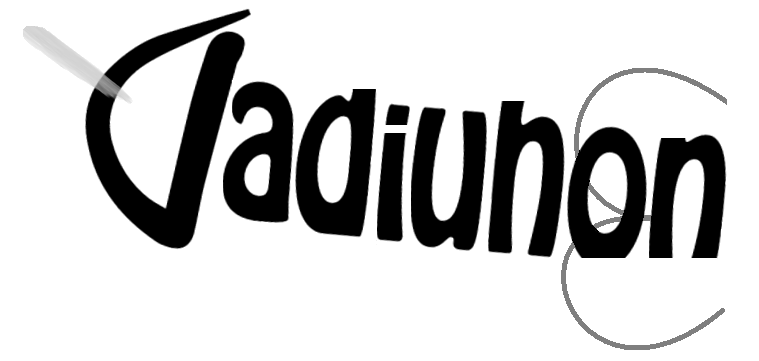
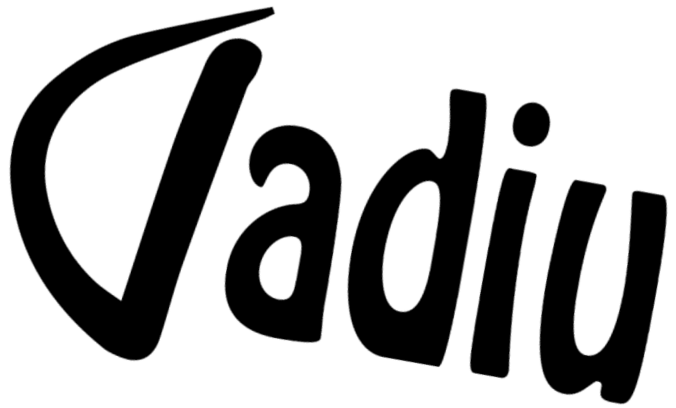
1

diff --git a/multiknapsack.html b/multiknapsack.html
@@ -14,7 +14,7 @@
 	  <script type="text/javascript" src="/js/jquery.scrollTo.js"></script>
 </head>
 
-<title>Dadiuhon | Multiple Knapsacks</title>
+<title>Dadiu | Multiple Knapsacks</title>
 
 <body onload="">
 	<div id="head">

diff --git a/japaneseSearch.html b/japaneseSearch.html
@@ -16,7 +16,7 @@
 
 </head>
 
-<title>Dadiuhon | 初級日本語 搜索</title>
+<title>Dadiu | 初級日本語 搜索</title>
 
 <body onload="document.getElementById('searchKey').focus();">
 	<div id="head">

diff --git a/academic.html b/academic.html
@@ -14,7 +14,7 @@
 	  <script type="text/javascript" src="/js/jquery.scrollTo.js"></script>
 </head>
 
-<title>Dadiuhon | Dice Game</title>
+<title>Dadiu | Dice Game</title>
 
 <body>
 	<div id="page0">

diff --git a/japaneseVerb.html b/japaneseVerb.html
@@ -16,7 +16,7 @@
 
 </head>
 
-<title>Dadiuhon | 初級日本語 動詞形態</title>
+<title>Dadiu | 初級日本語 動詞形態</title>
 
 <body onload="restart();">
 	<div id="head">

diff --git a/japaneseReading2.html b/japaneseReading2.html
@@ -16,7 +16,7 @@
 
 </head>
 
-<title>Dadiuhon | 中級日本語 聆聽閱讀</title>
+<title>Dadiu | 中級日本語 聆聽閱讀</title>
 
 <body onload="restart()">
 	<div id="head">

diff --git a/japaneseSpeaking.html b/japaneseSpeaking.html
@@ -16,7 +16,7 @@
 
 </head>
 
-<title>Dadiuhon | 初級日本語 聆聽會話</title>
+<title>Dadiu | 初級日本語 聆聽會話</title>
 
 <body onload="restart()">
 	<div id="head">

diff --git a/japanese.html b/japanese.html
@@ -93,7 +93,7 @@
 	</style>
 </head>
 
-<title>Dadiuhon | 日本語 五十音</title>
+<title>Dadiu | 日本語 五十音</title>
 
 <body onload="restart();">
 	<div id="head">

diff --git a/japaneseWord.html b/japaneseWord.html
@@ -16,7 +16,7 @@
 
 </head>
 
-<title>Dadiuhon | 初級日本語 詞彙</title>
+<title>Dadiu | 初級日本語 詞彙</title>
 
 <body onload="restart();">
 	<div id="head">

diff --git a/japaneseGrammar.html b/japaneseGrammar.html
@@ -16,7 +16,7 @@
 
 </head>
 
-<title>Dadiuhon | 初級日本語 文法</title>
+<title>Dadiu | 初級日本語 文法</title>
 
 <body onload="restart()">
 	<div id="head">

diff --git a/japaneseGrammar2.html b/japaneseGrammar2.html
@@ -16,7 +16,7 @@
 
 </head>
 
-<title>Dadiuhon | 中級日本語 文法</title>
+<title>Dadiu | 中級日本語 文法</title>
 
 <body onload="restart()">
 	<div id="head">

diff --git a/template.html b/template.html
@@ -15,7 +15,7 @@
 
 </head>
 
-<title>Dadiuhon | Template</title>
+<title>Dadiu | Template</title>
 
 <body onload="">
 	<div id="head">

diff --git a/index.html b/index.html
@@ -11,7 +11,7 @@
 	  href="/img/d01.png">
 </head>
 
-<title>Dadiuhon</title>
+<title>Dadiu</title>
 
 <body>
 
